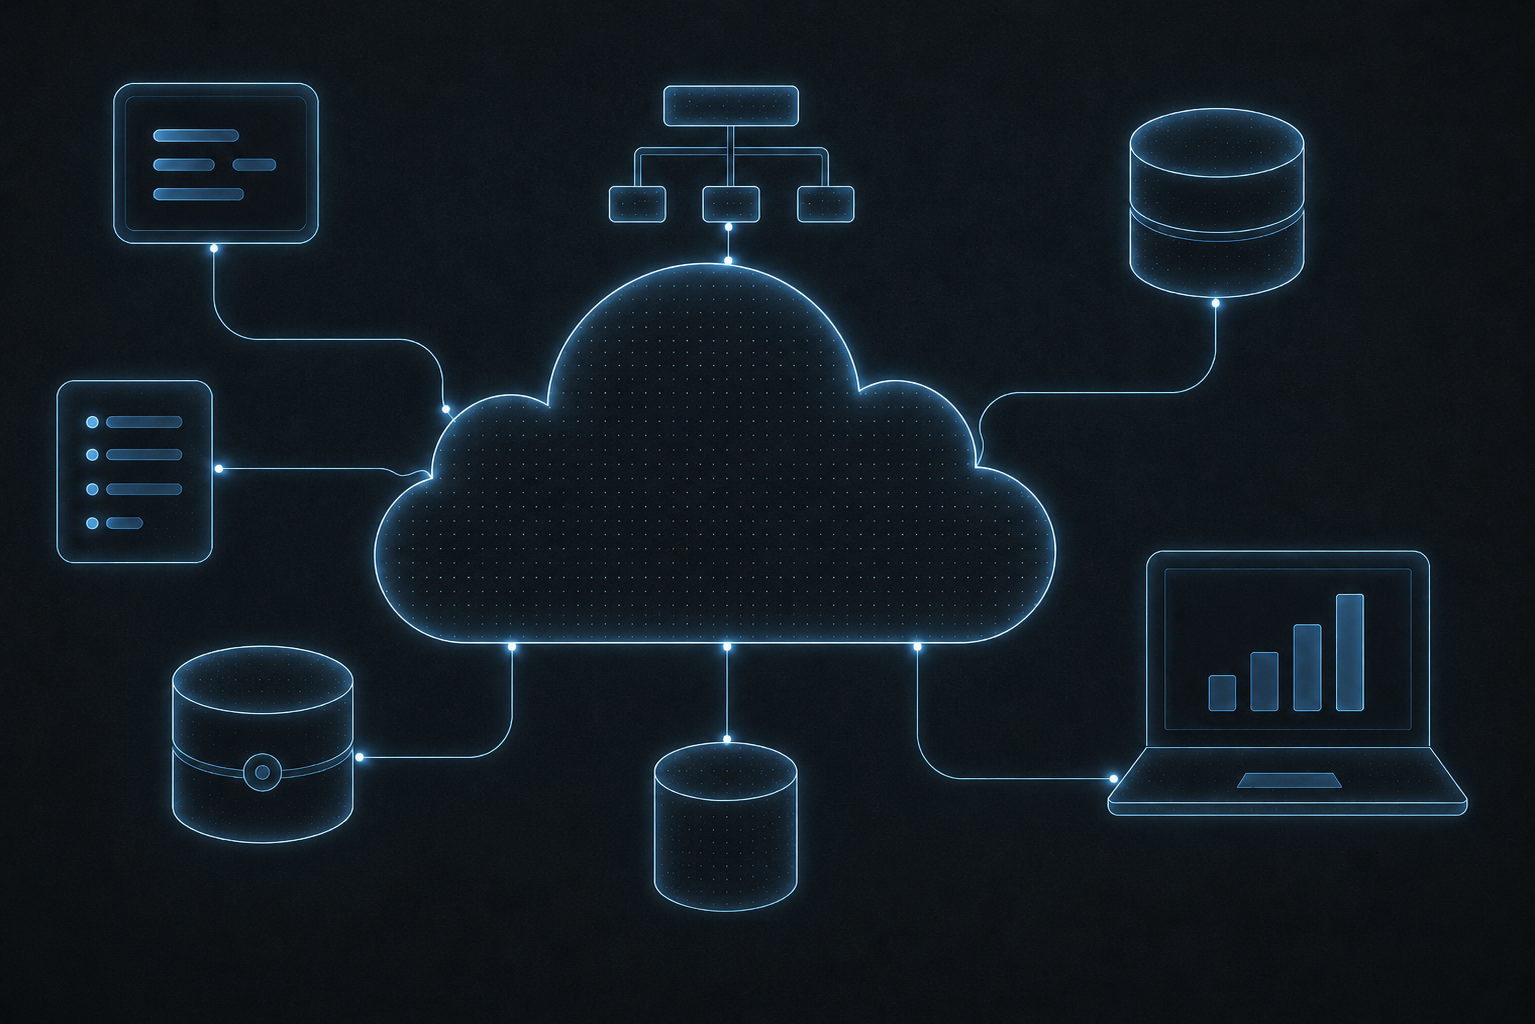
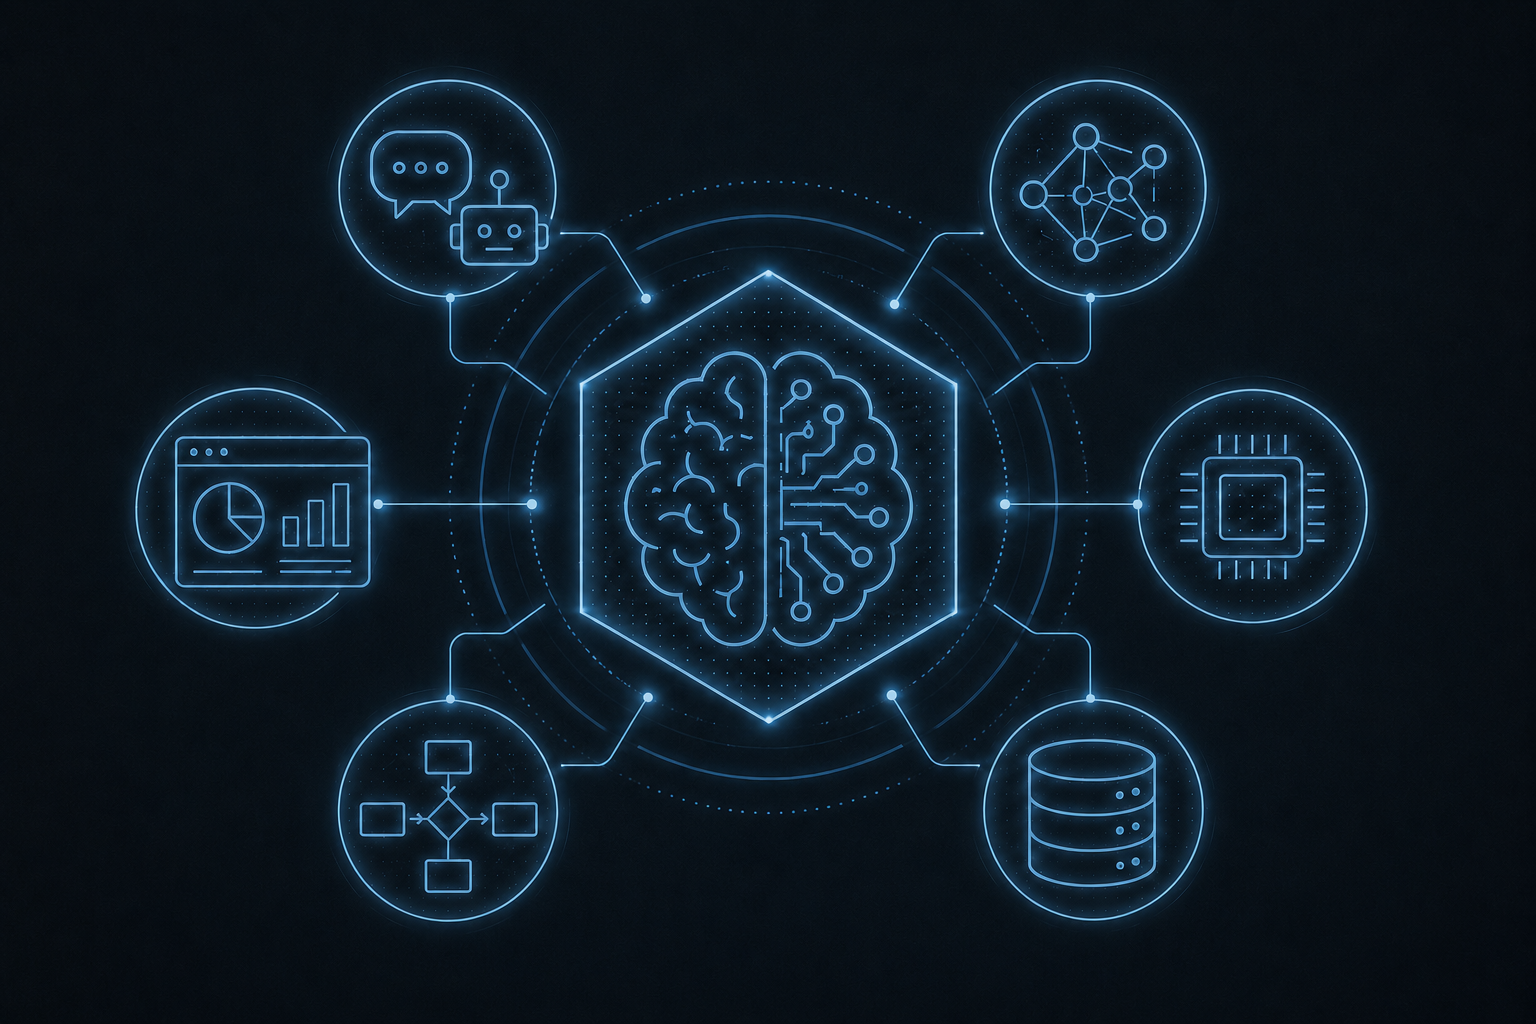
Experience and Cert changes

Changed region(s): [[0.0306, 0.0625, 0.9798, 0.9062]]

diff --git a/index.html b/index.html
@@ -100,7 +100,7 @@
         <div class="skill-card">
           <i class='bx bx-cloud'></i>
           <h4>Cloud & DevOps</h4>
-          <p>AWS (Lambda, EC2, S3, CloudWatch, RedShift, Aurora), Docker, GitHub Actions, Agile Methodologies, CI/CD pipelines, Shell scripting, Jira.</p>
+          <p>AWS (Lambda, EC2, S3, CloudWatch, RedShift, Aurora, Bedrock, SageMaker AI), Docker, GitHub Actions, Agile Methodologies, CI/CD pipelines, Shell scripting, Jira.</p>
         </div>
       </div>
     </section>
@@ -124,7 +124,8 @@
               <img src="images/acx.jpg" alt="Logo"/>
               <h5>Acxhange</h5>
             </div>
-            <p>Built full-stack features for AI-powered email automation system using Angular and Node.js/TypeScript, processing 1,000+ customer emails daily and generating 300+ automated tasks weekly for approval workflows. Implemented 15+ AWS Lambda functions with S3 integration for serverless data management, reducing deployment time to development environment by 40% through streamlined CI/CD processes. Contributed to Agile sprint cycles via Jira ticket management, delivering features that reduced manual task creation time by 60% and improved email-to-task conversion accuracy to 85%.</p>
+            <p>Built full-stack features for an AI-powered email automation system using Angular, AWS Lambda, and Amazon S3, processing 1,000+ customer emails daily and generating 300+ automated tasks weekly for approval workflows. Implemented backend APIs and event-driven workflows for an SMS notification system using Node.js, TypeScript, and DynamoDB, supporting policy communications for 150,000+ customers and reducing manual notification effort by 80%. Executed development of a geospatial moratorium application using React, Esri ArcGIS, JSON-configured workflows, and automated data pipelines, supporting disaster-response policy restrictions across four U.S. states and reducing processing time by 70%.
+</p>
             <p class="skills-line"><strong>Skills:</strong> Python, TypeScript, AWS Lambda, AWS S3, Jira, Node.js, Angular</p>
           </div>
         </div>
@@ -203,7 +204,17 @@
 
       <div class="cert-grid">
         <div class="cert">
-          <img src="images/cert1.jpg" alt="AWS - Certified Cloud Practitioner"/>
+          <img src="images/cert1.jpg" alt="AWS - Certified AI Practitioner"/>
+          <div class="cert-info">
+            <h4>AWS - Certified AI Practitioner</h4>
+            <a class="chip" href="https://www.credly.com/badges/0ae6f83c-8307-4336-9c17-f92c46a751fb/public_url" target="_blank" rel="noopener">
+              <i class='bx bx-link-external'></i> View Certificate
+            </a>
+          </div>
+        </div>
+
+        <div class="cert">
+          <<img src="images/cert2.jpg" alt="AWS - Certified Cloud Practitioner"/>
           <div class="cert-info">
             <h4>AWS - Certified Cloud Practitioner</h4>
             <a class="chip" href="https://www.credly.com/badges/2f7acc76-86e4-48ae-a217-34ea3e02b8af/public_url" target="_blank" rel="noopener">
@@ -213,20 +224,10 @@
         </div>
 
         <div class="cert">
-          <img src="images/cert2.jpeg" alt="IBM's Python for Data Science, AI and Development"/>
+          <img src="images/cert3.jpeg" alt="IBM's Python for Data Science, AI and Development"/>
           <div class="cert-info">
             <h4>IBM's Python for Data Science, AI and Development</h4>
             <a class="chip" href="https://coursera.org/share/1d7b13d5c2704f5ac6c5c90a3c4ff9a4" target="_blank" rel="noopener">
-              <i class='bx bx-link-external'></i> View Certificate
-            </a>
-          </div>
-        </div>
-
-        <div class="cert">
-          <img src="images/cert3.jpeg" alt="HackerRank - SQL"/>
-          <div class="cert-info">
-            <h4>HackerRank - SQL</h4>
-            <a class="chip" href="https://www.hackerrank.com/certificates/fcd24e1cd7fb" target="_blank" rel="noopener">
               <i class='bx bx-link-external'></i> View Certificate
             </a>
           </div>
